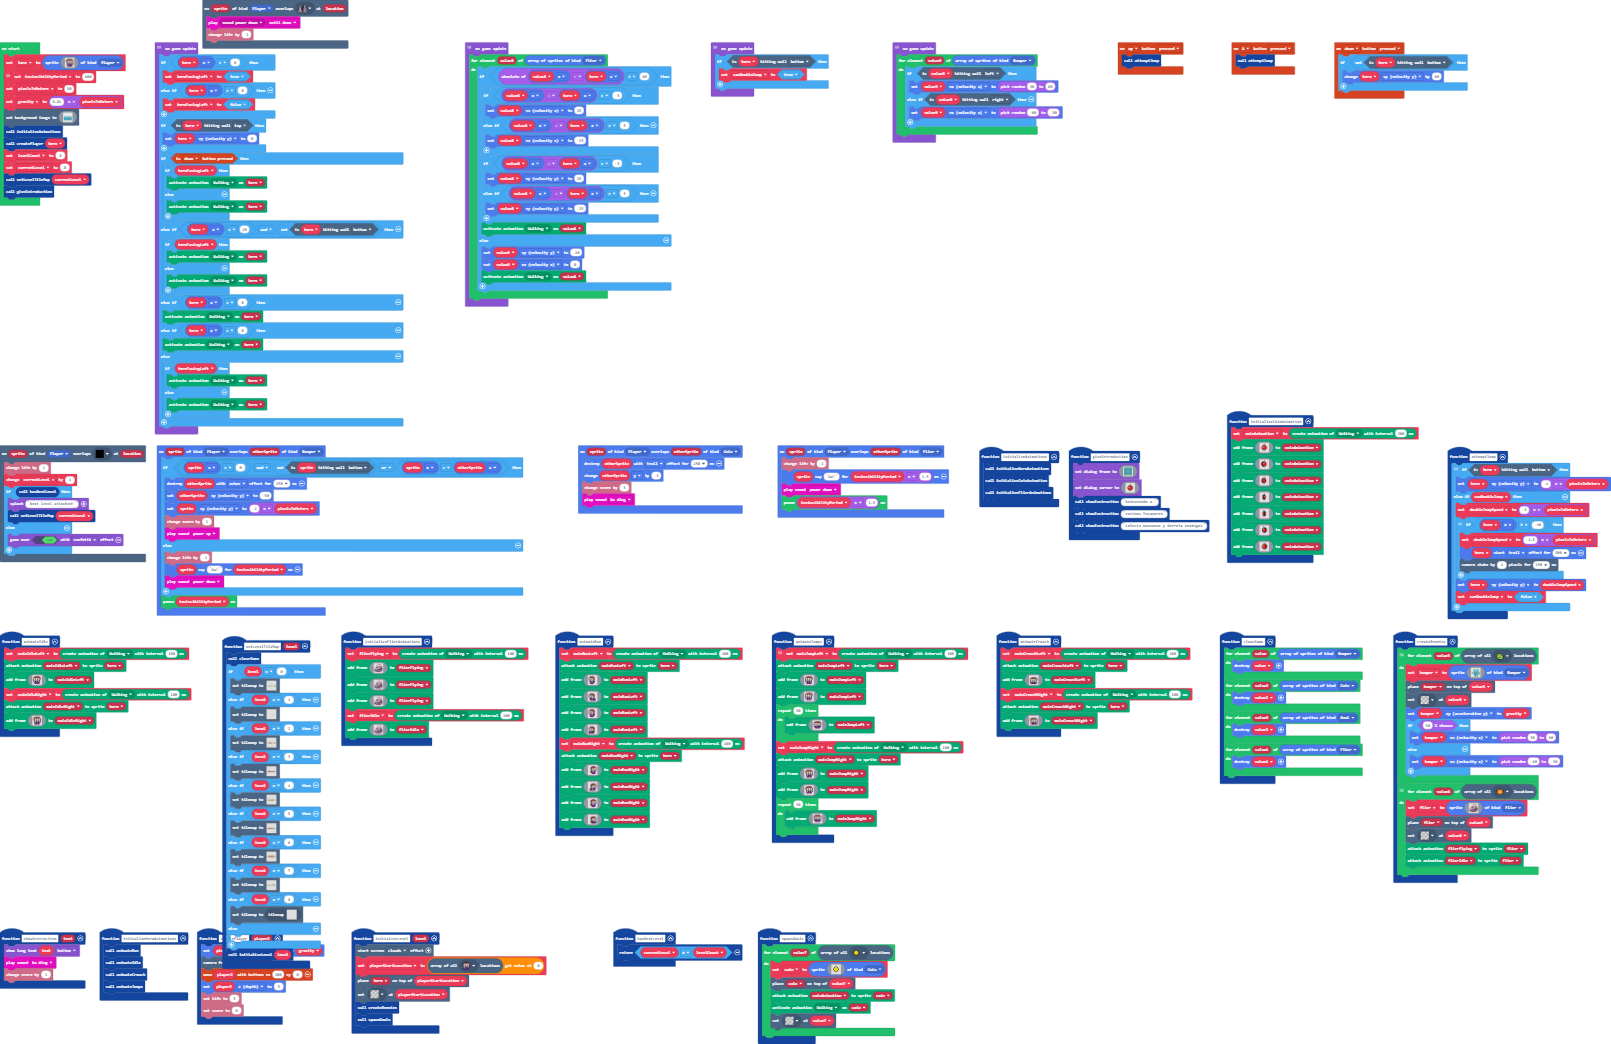
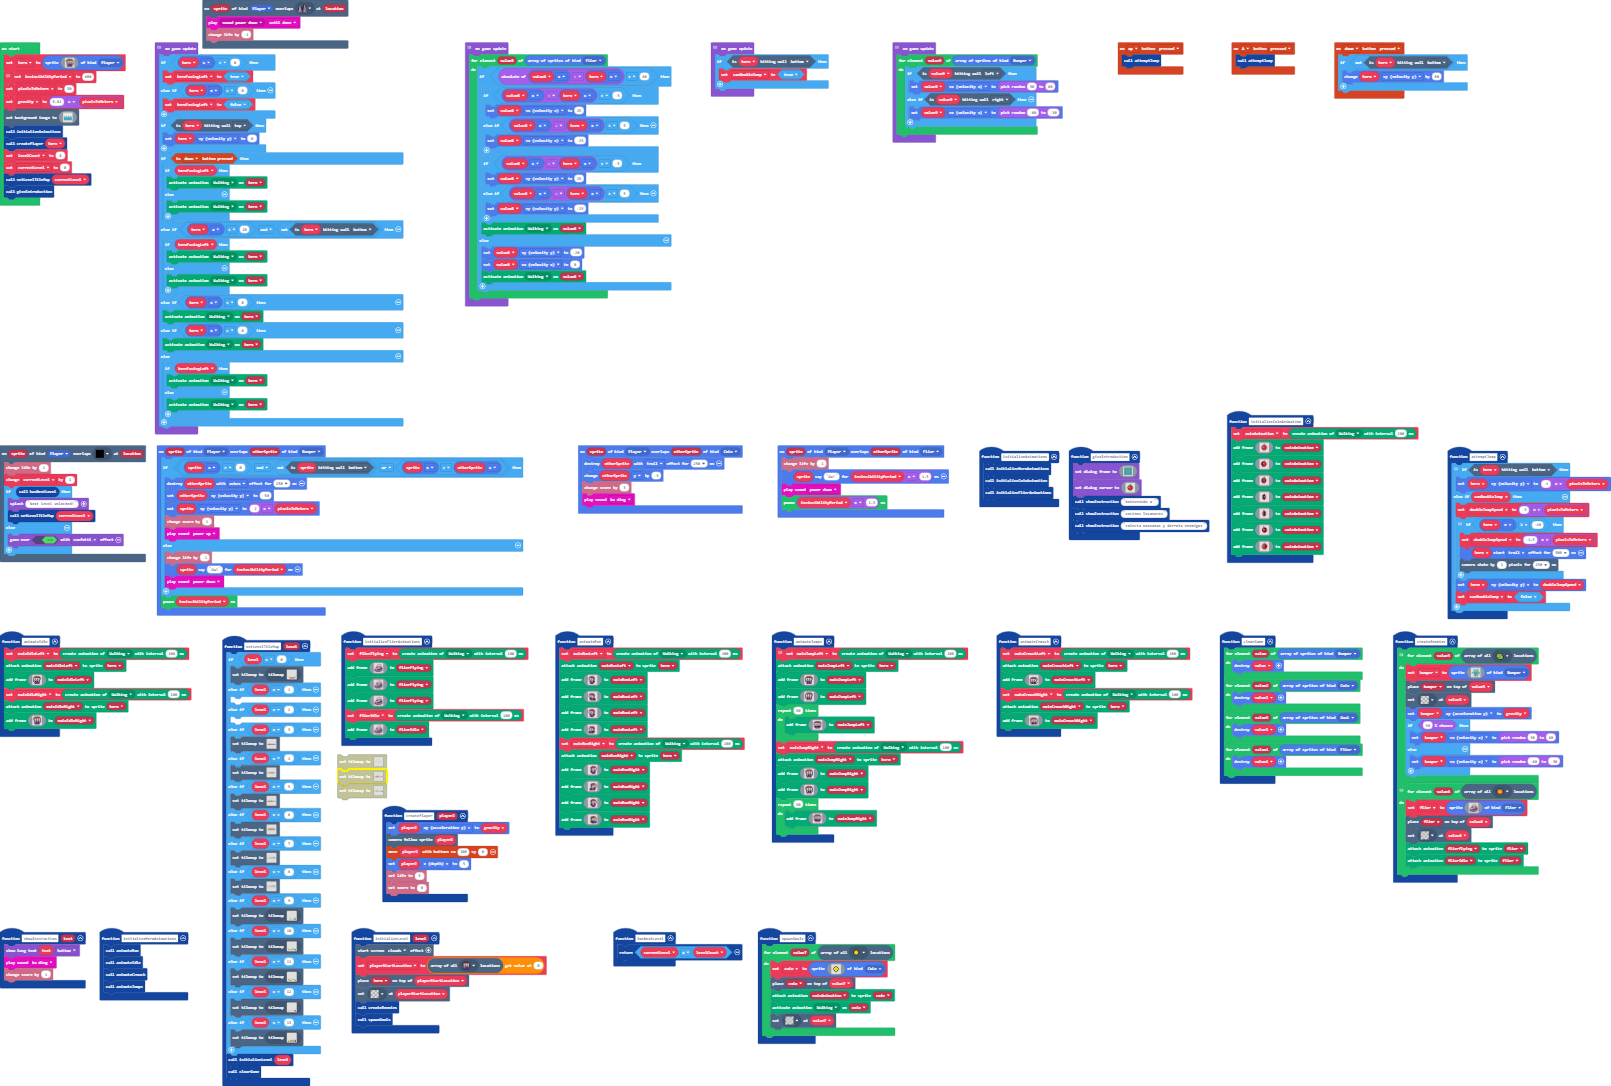
Update main.blocks, main.ts, tilemap.g.jres, tilemap.g.ts

diff --git a/tilemap.g.ts b/tilemap.g.ts
@@ -86,28 +86,6 @@ namespace myTiles {
 2......................................
 222222222222222222222222222222222222222
 `, [myTiles.tile0,myTiles.tile1,myTiles.tile2,myTiles.tile3,myTiles.tile4,myTiles.tile6,myTiles.tile5], TileScale.Sixteen);
-            case "level_6":
-            case "level_6":return tiles.createTilemap(hex`250008000000000000000000000000000000000000000000000000000000050505050505050000000000000000000000000700000000000000000003030000000700000505050505050500000000000000000000030300000000000303030000030300000000000003030303030303000000000000000000030000000000000000000000000000000000000000000000000000000000000000000000030000000000000000000000000000000000000000000000000000000000000003030000000000000000000000000000000000000000000000000000000000000000000000030304000000000006000000000006000000000600000000000000060000000000000001000303020202020202020202020202020202020202020202020202020202020202020202020202`, img`
-. . . . . . . . . . . . . . . . . . . . . . . . . . . . . . . . . . . . . 
-. . . . . . . . . . . . . . . . . . 2 2 . . . . . . . . . . . . . . . . . 
-. . . . . . 2 2 . . . . . 2 2 2 . . 2 2 . . . . . . 2 2 2 2 2 2 2 . . . . 
-. . . . . 2 . . . . . . . . . . . . . . . . . . . . . . . . . . . . . . . 
-. . . . 2 . . . . . . . . . . . . . . . . . . . . . . . . . . . . . . . . 
-2 . . . . . . . . . . . . . . . . . . . . . . . . . . . . . . . . . . . . 
-2 . . . . . . . . . . . . . . . . . . . . . . . . . . . . . . . . . . . . 
-2 2 2 2 2 2 2 2 2 2 2 2 2 2 2 2 2 2 2 2 2 2 2 2 2 2 2 2 2 2 2 2 2 2 2 2 2 
-`, [myTiles.tile0,myTiles.tile1,myTiles.tile2,myTiles.tile3,myTiles.tile6,myTiles.tile5,myTiles.tile4,myTiles.tile7], TileScale.Sixteen);
-            case "level_0":
-            case "level_0":return tiles.createTilemap(hex`640008000000000000000000000000000000000000000000000000000000000000000000000000000000000000000000000000000000000000000000000000000000000000000000000000000000000000000000000000000000000000000000000000000000000000000000000000000000000000000000000000000000000003000000000000000000000000000000000000000000000000000000000000000000000000000000000000000000000000000000000000000000000000000000000000000000000000000000000000000000000000000000000000000000000000000000000000000000000000000000000100000000000000000000000000000000000000000000000000000000000000000000000000000000000000000000000000000000000000000000000000000000000000020202020000000000000000000000000005050505000000000000000505050505050505050000000000000000000000000000000000000000000000000000000000000000000000000000000505050500000000000000000000000000000000000000000505050502000000000000000000000005000000000500000000000005000000000000000500000000000000000000000000000000000000000000000000000000000000000000000005050500000000050505050000000000000000000000070000000000000000050000000000000000000000000000000000000000000000000000000000000000000000000000000000000000000000050505000000000000000000050505050505050505050000000000000000000000000000000000000000000000000000000000000000000606000000000000000000000000000000000000000000000000000000000000000000000000000000000000000000050505050505050505050500000000000000000000000000000000000000000000000000000000000004040404040404040404040404040404040404040404040404040404040404040404040404040404040404040404040404040404040404040404040404040404040404040404040404040404040404040404040404040404040404040404040404040404`, img`
-....................................................................................................
-....................................................................................................
-....................................................................................................
-....................................................................................................
-.....2222...........................................................................................
-.........2..........................................................................................
-....................................................................................................
-2222222222222222....................................................................................
-`, [myTiles.tile0,myTiles.tile4,myTiles.tile5,myTiles.tile7,myTiles.tile10,sprites.builtin.forestTiles0,myTiles.tile12,myTiles.tile6], TileScale.Sixteen);
             case "level":
[1 lines of base64/hex data omitted]
 . . . . . . . . . . . . . . . . . . . . . . . . . . . . . . . . 
@@ -119,8 +97,8 @@ namespace myTiles {
 . . . . 2 . . . 2 . . . . 2 . . . . 2 . . . . . . 2 . . . . . 2 
 2 2 2 2 2 2 2 2 2 2 2 2 2 2 2 2 2 2 2 2 2 2 2 2 2 2 2 2 2 2 2 2 
 `, [myTiles.tile0,myTiles.tile1,myTiles.tile3,myTiles.tile4,myTiles.tile5,myTiles.tile6,myTiles.tile8,sprites.builtin.forestTiles0,myTiles.tile11,myTiles.tile12,myTiles.tile7,myTiles.tile10], TileScale.Sixteen);
-            case "level1":
-            case "level1":return tiles.createTilemap(hex`1000100000000000000000000000000000000000000000000000000000000000000000000000000000000000000000000000000000000000000000000000000000000000000000000000000000000000000000000000000000000000000000000000000000000000000000000000000000000000000000000000000000000000000000000000000000000000000000000000000000000000000000000000000000000000000000000000000000000000000000000000000000000000000000000000000000000000000000000000000000000000000000000000000000000000000000000000000000000000000000000000000000000000000000000000000000000000`, img`
+            case "level3":
+            case "level3":return tiles.createTilemap(hex`1000100000000000000000000000000000000000000000000000000000000000000000000000000000000000000000000000000000000000000000000000000000000000000000000000000000000000000000000000000000000000000000000000000000000000000000000000000000000000000000000000000000000000000000000000000000000000000000000000000000000000000000000000000000000000000000000000000000000000000000000000000000000000000000000000000000000000000000000000000000000000000000000000000000000000000000000000000000000000000000000000000000000000000000000000000000000000`, img`
 . . . . . . . . . . . . . . . . 
 . . . . . . . . . . . . . . . . 
 . . . . . . . . . . . . . . . . 
@@ -138,6 +116,161 @@ namespace myTiles {
 . . . . . . . . . . . . . . . . 
 . . . . . . . . . . . . . . . . 
 `, [myTiles.transparency16], TileScale.Sixteen);
+            case "level_0":
+            case "level_0":return tiles.createTilemap(hex`640008000000000000000000000000000000000000000000000000000000000000000000000000000000000000000000000000000000000000000000000000000000000000000000000000000000000000000000000000000000000000000000000000000000000000000000000000000000000000000000000000000000000003000000000000000000000000000000000000000000000000000000000000000000000000000000000000000000000000000000000000000000000000000000000000000000000000000000000000000000000000000000000000000000000000000000000000000000000000000000000100000000000000000000000000000000000000000000000000000000000000000000000000000000000000000000000000000000000000000000000000000000000000020202020000000000000000000000000005050505000000000000000505050505050505050000000000000000000000000000000000000000000000000000000000000000000000000000000505050500000000000000000000000000000000000000000505050502000000000000000000000005000000000500000000000005000000000000000500000000000000000000000000000000000000000000000000000000000000000000000005050500000000050505050000000000000000000000070000000000000000050000000000000000000000000000000000000000000000000000000000000000000000000000000000000000000000050505000000000000000000050505050505050505050000000000000000000000000000000000000000000000000000000000000000000606000000000000000000000000000000000000000000000000000000000000000000000000000000000000000000050505050505050505050500000000000000000000000000000000000000000000000808080800000004040404040404040404040404040404040404040404040404040404040404040404040404040404040404040404040404040404040404040404040404040404040404040404040404040404040404040404040404040404040404040404040404040404`, img`
+....................................................................................................
+....................................................................................................
+....................................................................................................
+....................................................................................................
+.....2222...........................................................................................
+.........2..........................................................................................
+....................................................................................................
+2222222222222222....................................................................................
+`, [myTiles.tile0,myTiles.tile4,myTiles.tile5,myTiles.tile7,myTiles.tile10,sprites.builtin.forestTiles0,myTiles.tile12,myTiles.tile6,myTiles.tile9], TileScale.Sixteen);
+            case "level2":
+            case "level2":return tiles.createTilemap(hex`1000100000000000000000000000000000000000000000000000000000000000000000000000000000000000000000000000000000000000000000000000000000000000000000000000000000000000000000000000000000000000000000000000000000000000000000000000000000000000000000000000000000000000000000000000000000000000000000000000000000000000000000000000000000000000000000000000000000000000000000000000000000000000000000000000000000000000000000000000000000000000000000000100000000000000000202000000000303030303030000000002020000000300000000000003030303030303`, img`
+. . . . . . . . . . . . . . . . 
+. . . . . . . . . . . . . . . . 
+. . . . . . . . . . . . . . . . 
+. . . . . . . . . . . . . . . . 
+. . . . . . . . . . . . . . . . 
+. . . . . . . . . . . . . . . . 
+. . . . . . . . . . . . . . . . 
+. . . . . . . . . . . . . . . . 
+. . . . . . . . . . . . . . . . 
+. . . . . . . . . . . . . . . . 
+. . . . . . . . . . . . . . . . 
+. . . . . . . . . . . . . . . . 
+. . . . . . . . . . . . . . . . 
+. . . . . . . . . . . . . . . . 
+. . . 2 2 2 2 2 2 . . . . . . . 
+. . 2 2 2 2 2 2 2 2 2 2 2 2 2 2 
+`, [myTiles.transparency16,myTiles.tile6,myTiles.tile9,sprites.castle.tileGrass2], TileScale.Sixteen);
+            case "level4":
+            case "level4":return tiles.createTilemap(hex`1000100000000000000000000000000000000000000000000000000000000000000000000000000000000000000000000000000000000000000000000000000000000000000000000000000000000000000000000000000000000000000000000000000000000000000000000000000000000000000000000000000000000000000000000000000000000000000000000000000000000000000000000000000000000000000000000000000000000000000000000000000000000000000000000000000000000000000000000000000000000000020000000000000001010101010000000000000000000000000000000000030304040404040404040404040404040404`, img`
+. . . . . . . . . . . . . . . . 
+. . . . . . . . . . . . . . . . 
+. . . . . . . . . . . . . . . . 
+. . . . . . . . . . . . . . . . 
+. . . . . . . . . . . . . . . . 
+. . . . . . . . . . . . . . . . 
+. . . . . . . . . . . . . . . . 
+. . . . . . . . . . . . . . . . 
+. . . . . . . . . . . . . . . . 
+. . . . . . . . . . . . . . . . 
+. . . . . . . . . . . . . . . . 
+. . . . . . . . . . . . . . . . 
+. . . . . . . . . . . . . . . . 
+. . . . . . . . . . . . . . . . 
+. . . . . . . . 2 2 2 2 2 . . . 
+2 2 2 2 2 2 2 2 2 2 2 2 2 2 2 2 
+`, [myTiles.transparency16,myTiles.tile5,myTiles.tile6,myTiles.tile9,sprites.builtin.forestTiles0], TileScale.Sixteen);
+            case "level6":
+            case "level6":return tiles.createTilemap(hex`1000100000000000000000000000000000000000000000000000000000000000000000000000000000000000000000000000000000000000000000000000000000000000000000000000000000000000000000000000000000000000000000000000000000000000000000000000000000000000000000000000000000000000000000000000000000000000000000000000000000000000000000000000000000000000000000000000000000000000000000000000000000000000000000000000000000000000000000000000000000000000000000000000000000000000000000000001030303030303030303030302020203030303030303030303030303030302`, img`
+. . . . . . . . . . . . . . . . 
+. . . . . . . . . . . . . . . . 
+. . . . . . . . . . . . . . . . 
+. . . . . . . . . . . . . . . . 
+. . . . . . . . . . . . . . . . 
+. . . . . . . . . . . . . . . . 
+. . . . . . . . . . . . . . . . 
+. . . . . . . . . . . . . . . . 
+. . . . . . . . . . . . . . . . 
+. . . . . . . . . . . . . . . . 
+. . . . . . . . . . . . . . . . 
+. . . . . . . . . . . . . . . . 
+. . . . . . . . . . . . . . . . 
+. . . . 2 2 . . . . . . . . . . 
+. . 2 2 2 2 2 2 2 2 2 2 2 . . . 
+2 2 2 2 2 2 2 2 2 2 2 2 2 2 2 . 
+`, [myTiles.transparency16,myTiles.tile6,myTiles.tile9,sprites.castle.tilePath5], TileScale.Sixteen);
+            case "level5":
+            case "level5":return tiles.createTilemap(hex`1000100000000000000000000000000000000000000000000000000000000000000000000000000000000000000000000000000000000000000000000000000000000000000000000000000000000000000000000000000000000000000000000000000000000000000000000000000000000000000000000000000000000000000000000000000000000000000000000000000000000000000000000000000000000000000000000000000000000000000000000000000000000000000000000000000003000000000000000000000000000000010101000000000101010101010100000000010100010100000000000000020200000001010100000000000000000000`, img`
+. . . . . . . . . . . . . . . . 
+. . . . . . . . . . . . . . . . 
+. . . . . . . . . . . . . . . . 
+. . . . . . . . . . . . . . . . 
+. . . . . . . . . . . . . . . . 
+. . . . . . . . . . . . . . . . 
+. . . . . . . . . . . . . . . . 
+. . . . . . . . . . . . . . . . 
+. . . . . . . . . . . . . . . . 
+. . . . . . . . . . . . . . . . 
+. . . . . . . . . . . . . . . . 
+. . . . . . . . . . . . . . . . 
+. . . . . . . . . . . . . . . . 
+. . . . . . . . . . . . . . . . 
+2 2 . . . . . 2 2 2 2 2 2 2 . . 
+2 2 2 2 2 2 2 2 2 2 2 2 2 2 2 2 
+`, [myTiles.transparency16,myTiles.tile5,myTiles.tile9,myTiles.tile6], TileScale.Sixteen);
+            case "level7":
+            case "level7":return tiles.createTilemap(hex`1000100000000000000000000000000000000000000000000000000000000000000000000000000000000000000000000000000000000000000000000000000000000000000000000000000000000000000000000000000000000000000000000000000000000000000000000000000000000000000000000000000000000000000000000000000000000000000000000000000000000000000000000000000000000000000000000000000000000000000000000000000000000000000000000000000000000000000002020202020000000000000000000002020000000202000004040300000000020000000000020000040401010101010101010101010101010101`, img`
+. . . . . . . . . . . . . . . . 
+. . . . . . . . . . . . . . . . 
+. . . . . . . . . . . . . . . . 
+. . . . . . . . . . . . . . . . 
+. . . . . . . . . . . . . . . . 
+. . . . . . . . . . . . . . . . 
+. . . . . . . . . . . . . . . . 
+. . . . . . . . . . . . . . . . 
+. . . . . . . . . . . . . . . . 
+. . . . . . . . . . . . . . . . 
+. . . . . . . . . . . . . . . . 
+. . . . . . . . . . . . . . . . 
+. . . . . . . . . . . . . . . . 
+. . . . . . . 2 2 2 . . . . . . 
+. . . . . . 2 2 2 2 2 . . . . . 
+2 2 2 2 2 2 2 2 2 2 2 2 2 2 2 2 
+`, [myTiles.transparency16,myTiles.tile2,myTiles.tile5,myTiles.tile6,myTiles.tile9], TileScale.Sixteen);
+            case "level8":
+            case "level8":return tiles.createTilemap(hex`1000100000000000000000000000000000000000000000000000000000000000000000000000000000000000000000000000000000000000000000000000000000000000000000000000000000000000000000000000000000000000000000000000000000000000000000000000000000000000000000000000000000000000000000000000000000000000000000000000000000000000000000000000000000000000000000000000000000000000000000000000000000000000000000000000000000000000000000000000000000000000000000000000000000000000000000000000000000000000000000000000000000000000000000000000000000000000`, img`
+. . . . . . . . . . . . . . . . 
+. . . . . . . . . . . . . . . . 
+. . . . . . . . . . . . . . . . 
+. . . . . . . . . . . . . . . . 
+. . . . . . . . . . . . . . . . 
+. . . . . . . . . . . . . . . . 
+. . . . . . . . . . . . . . . . 
+. . . . . . . . . . . . . . . . 
+. . . . . . . . . . . . . . . . 
+. . . . . . . . . . . . . . . . 
+. . . . . . . . . . . . . . . . 
+. . . . . . . . . . . . . . . . 
+. . . . . . . . . . . . . . . . 
+. . . . . . . . . . . . . . . . 
+. . . . . . . . . . . . . . . . 
+. . . . . . . . . . . . . . . . 
+`, [myTiles.transparency16], TileScale.Sixteen);
+            case "level_6":
+            case "level_6":return tiles.createTilemap(hex`250008000000000000000000000000000000000000000000000000000000040404040404040000000000000000000000000600000000000000000002020000000600000404040404040400000000000000000000020200000000000202020000020200000000000002020202020202000000000000000000020000000000000000000000000000000000000000000000000000000000000000000000020000000000000000000000000000000000000000000000000000000000000002020000000000000000000000000000000000000000000000000000000000000000000000020203000000000005000000000007070707070707070707070000050707070707070007070202010707070707070707070707070707070707070707070707070707010101070707070701`, img`
+. . . . . . . . . . . . . . . . . . . . . . . . . . . . . . . . . . . . . 
+. . . . . . . . . . . . . . . . . . 2 2 . . . . . . . . . . . . . . . . . 
+. . . . . . 2 2 . . . . . 2 2 2 . . 2 2 . . . . . . 2 2 2 2 2 2 2 . . . . 
+. . . . . 2 . . . . . . . . . . . . . . . . . . . . . . . . . . . . . . . 
+. . . . 2 . . . . . . . . . . . . . . . . . . . . . . . . . . . . . . . . 
+2 . . . . . . . . . . . . . . . . . . . . . . . . . . . . . . . . . . . . 
+2 . . . . . . . . . . . . . . . . . . . . . . . . . . . . . . . . . . . . 
+2 2 2 2 2 2 2 2 2 2 2 2 2 2 2 2 2 2 2 2 2 2 2 2 2 2 2 2 2 2 2 2 2 2 2 2 2 
+`, [myTiles.tile0,myTiles.tile2,myTiles.tile3,myTiles.tile6,myTiles.tile5,myTiles.tile4,myTiles.tile7,sprites.builtin.forestTiles0], TileScale.Sixteen);
+            case "level1":
+            case "level1":return tiles.createTilemap(hex`1000100000000000000000000000000000000000000000000000000000000000000000000000000000000000000000000000000000000000000000000000000000000000000000000000000000000000000000000000000000000000000000000000000000000000000000000000000000000000000000000000000000000000000000000000000000000000000000000000000000000000000000000000000000000000000000000000000000000000000000000000000000000000000000000000000000000000000000000000000000000000000000010000000000000000000002000000000303030303030000000303000000000000000000030303030303000000`, img`
+. . . . . . . . . . . . . . . . 
+. . . . . . . . . . . . . . . . 
+. . . . . . . . . . . . . . . . 
+. . . . . . . . . . . . . . . . 
+. . . . . . . . . . . . . . . . 
+. . . . . . . . . . . . . . . . 
+. . . . . . . . . . . . . . . . 
+. . . . . . . . . . . . . . . . 
+. . . . . . . . . . . . . . . . 
+. . . . . . . . . . . . . . . . 
+. . . . . . . . . . . . . . . . 
+. . . . . . . . . . . . . . . . 
+. . . . . . . . . . . . . . . . 
+. . . . . . . . . . . . . . . . 
+. . . 2 2 2 2 2 2 . . . 2 2 . . 
+. . . . . . . 2 2 2 2 2 . . . . 
+`, [myTiles.transparency16,myTiles.tile6,myTiles.tile9,myTiles.tile3], TileScale.Sixteen);
         }
         return null;
     })

diff --git a/main.ts b/main.ts
@@ -307,13 +307,12 @@ function animateIdle () {
         `)
 }
 function setLevelTileMap (level: number) {
-    clearGame()
     if (level == 0) {
-        tiles.setTilemap(tilemap`level`)
+        tiles.setCurrentTilemap(tilemap`level1`)
     } else if (level == 1) {
-        tiles.setTilemap(tilemap`level_0`)
+    	
     } else if (level == 2) {
-        tiles.setTilemap(tilemap`level_1`)
+    	
     } else if (level == 3) {
         tiles.setTilemap(tilemap`level_2`)
     } else if (level == 4) {
@@ -325,11 +324,20 @@ function setLevelTileMap (level: number) {
     } else if (level == 7) {
         tiles.setTilemap(tilemap`level_6`)
     } else if (level == 8) {
-        tiles.setCurrentTilemap(tilemap`level1`)
-    } else {
-    	
+        tiles.setTilemap(tilemap`level_6`)
+    } else if (level == 9) {
+        tiles.setCurrentTilemap(tilemap`level2`)
+    } else if (level == 10) {
+        tiles.setCurrentTilemap(tilemap`level4`)
+    } else if (level == 11) {
+        tiles.setCurrentTilemap(tilemap`level5`)
+    } else if (level == 12) {
+        tiles.setCurrentTilemap(tilemap`level6`)
+    } else if (level == 13) {
+        tiles.setCurrentTilemap(tilemap`level7`)
     }
     initializeLevel(level)
+    clearGame()
 }
 function initializeFlierAnimations () {
     flierFlying = animation.createAnimation(ActionKind.Flying, 100)
